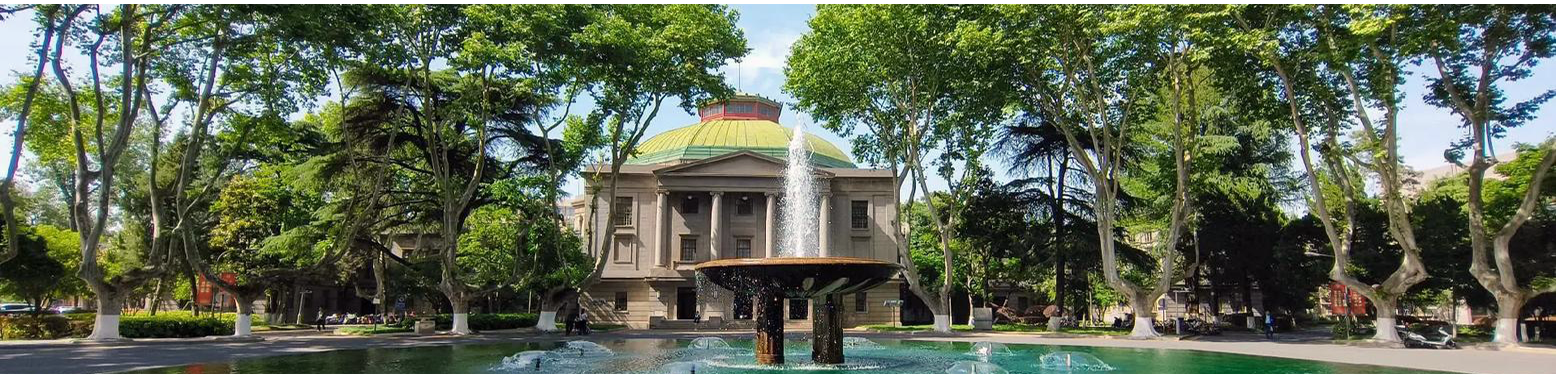
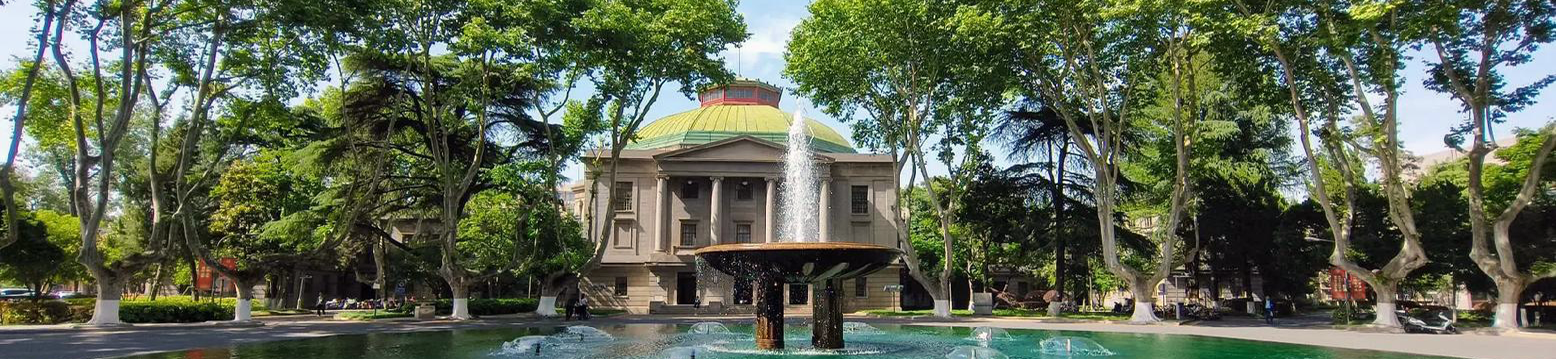
v0.22

diff --git a/index.html b/index.html
@@ -106,7 +106,7 @@
     </nav>
 
     <!-- Top Section -->
-    <section class="top-section" style="width: 100%; height: 456px; background-image: url('static/assets/img/background.png'); background-size: cover;">
+    <section class="top-section" style="width: 100%; height: 430px; background-image: url('static/assets/img/background.png'); background-size: cover;">
         <div class="top-section-content">
             <div class="container px-5">
                 <h2 id="top-section-bg-text" class="text-white display-3 lh-1 font-alt"></h2>
